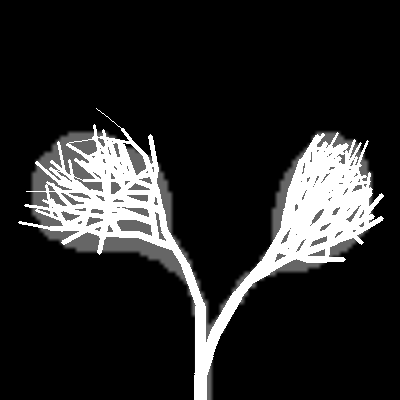
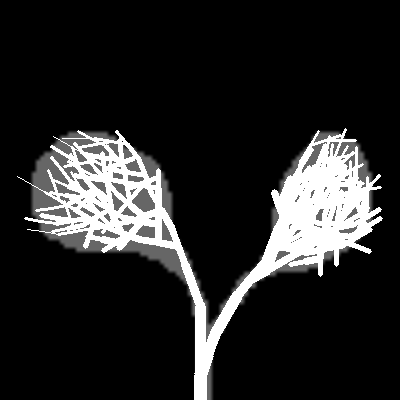
Fix a bug in computeIndicator
- use only those terminals with parameter defined.

Changed region(s): [[0.03, 0.3, 0.48, 0.66], [0.66, 0.33, 0.96, 0.69], [0.75, 0.48, 0.78, 0.51]]

diff --git a/MCTS_3DTree/ParametricLSystem.cpp b/MCTS_3DTree/ParametricLSystem.cpp
@@ -502,16 +502,24 @@ void ParametricLSystem::computeIndicator(const String& model, float scale, const
 
 	glm::mat4 modelMat = baseModelMat;
 
+	int undefined = 0;
 	for (int i = 0; i < model.length(); ++i) {
-		if (!model[i].param_defined) break;
+		if (undefined == 0 && !model[i].param_defined) {
+			undefined = 1;
+			continue;
+		}
 
 		if (model[i].name == "[") {
 			stack.push_back(modelMat);
+			if (undefined > 0) undefined++;
 		} else if (model[i].name == "]") {
 			if (!stack.empty()) {
 				modelMat = stack.back();
 				stack.pop_back();
+				if (undefined > 0) undefined--;
 			}
+		} else if (undefined > 0) {
+			continue;
 		} else if (model[i].name == "+" && model[i].param_defined) {
 			modelMat = glm::rotate(modelMat, deg2rad(model[i].param_values[0]), glm::vec3(0, 1, 0));
 		} else if (model[i].name == "-" && model[i].param_defined) {
@@ -544,14 +552,10 @@ void ParametricLSystem::computeIndicator(const String& model, float scale, const
 			int u2 = p2.x + size * 0.5;
 			int v2 = p2.z;
 
-			//if (radius > 0.1f) {
-				int thickness = max(1.0, radius);
-				cv::line(indicator, cv::Point(u1, v1), cv::Point(u2, v2), cv::Scalar(1), thickness);
-			//}
+			int thickness = max(1.0, radius);
+			cv::line(indicator, cv::Point(u1, v1), cv::Point(u2, v2), cv::Scalar(1), thickness);
 
 			modelMat = glm::translate(modelMat, glm::vec3(0, 0, length));
-		} else if (model[i].name == "X") {
-		} else {
 		}
 	}
 }
@@ -626,7 +630,6 @@ String ParametricLSystem::UCT(const String& current_model, const cv::Mat& target
 
 	// マスク画像を作成
 	cv::Mat mask = ml::create_mask(target.rows, target.cols, CV_8U, cv::Point(curPt.x, curPt.y), MASK_RADIUS);
-	cv::Mat mask2 = ml::create_mask(target.rows * 4, target.cols * 4, CV_8U, cv::Point(curPt.x * 4, curPt.y * 4), MASK_RADIUS * 4);
 	
 	// ルートノードを作成
 	Node* current_node = new Node(model);

diff --git a/MCTS_Parametric_NOGUI/ParametricLSystem.cpp b/MCTS_Parametric_NOGUI/ParametricLSystem.cpp
@@ -448,16 +448,24 @@ void ParametricLSystem::computeIndicator(const String& model, float scale, const
 
 	glm::mat4 modelMat = baseModelMat;
 
+	int undefined = 0;
 	for (int i = 0; i < model.length(); ++i) {
-		if (!model[i].param_defined) break;
+		if (undefined == 0 && !model[i].param_defined) {
+			undefined = 1;
+			continue;
+		}
 
 		if (model[i].name == "[") {
 			stack.push_back(modelMat);
+			if (undefined > 0) undefined++;
 		} else if (model[i].name == "]") {
 			if (!stack.empty()) {
 				modelMat = stack.back();
 				stack.pop_back();
+				if (undefined > 0) undefined--;
 			}
+		} else if (undefined > 0) {
+			continue;
 		} else if (model[i].name == "+" && model[i].param_defined) {
 			modelMat = glm::rotate(modelMat, deg2rad(model[i].param_values[0]), glm::vec3(0, 1, 0));
 		} else if (model[i].name == "-" && model[i].param_defined) {
@@ -573,7 +581,6 @@ String ParametricLSystem::UCT(const String& current_model, const cv::Mat& target
 
 	// マスク画像を作成
 	cv::Mat mask = ml::create_mask(target.rows, target.cols, CV_8U, cv::Point(curPt.x, curPt.y), MASK_RADIUS);
-	cv::Mat mask2 = ml::create_mask(target.rows * 4, target.cols * 4, CV_8U, cv::Point(curPt.x * 4, curPt.y * 4), MASK_RADIUS * 4);
 	
 	// ルートノードを作成
 	Node* current_node = new Node(model);

diff --git a/MCTS_Robot/ParametricLSystem.cpp b/MCTS_Robot/ParametricLSystem.cpp
@@ -506,16 +506,24 @@ void ParametricLSystem::computeIndicator(const String& model, float scale, const
 
 	glm::mat4 modelMat = baseModelMat;
 
+	int undefined = 0;
 	for (int i = 0; i < model.length(); ++i) {
-		if (!model[i].param_defined) break;
+		if (undefined == 0 && !model[i].param_defined) {
+			undefined = 1;
+			continue;
+		}
 
 		if (model[i].name == "[") {
 			stack.push_back(modelMat);
+			if (undefined > 0) undefined++;
 		} else if (model[i].name == "]") {
 			if (!stack.empty()) {
 				modelMat = stack.back();
 				stack.pop_back();
+				if (undefined > 0) undefined--;
 			}
+		} else if (undefined > 0) {
+			continue;
 		} else if (model[i].name == "+" && model[i].param_defined) {
 			modelMat = glm::rotate(modelMat, deg2rad(model[i].param_values[0]), glm::vec3(0, 1, 0));
 		} else if (model[i].name == "-" && model[i].param_defined) {
@@ -636,7 +644,6 @@ String ParametricLSystem::UCT(const String& current_model, const cv::Mat& target
 
 	// マスク画像を作成
 	cv::Mat mask = ml::create_mask(target.rows, target.cols, CV_8U, cv::Point(curPt.x, curPt.y), MASK_RADIUS);
-	cv::Mat mask2 = ml::create_mask(target.rows * 4, target.cols * 4, CV_8U, cv::Point(curPt.x * 4, curPt.y * 4), MASK_RADIUS * 4);
 	
 	// ルートノードを作成
 	Node* current_node = new Node(model);
